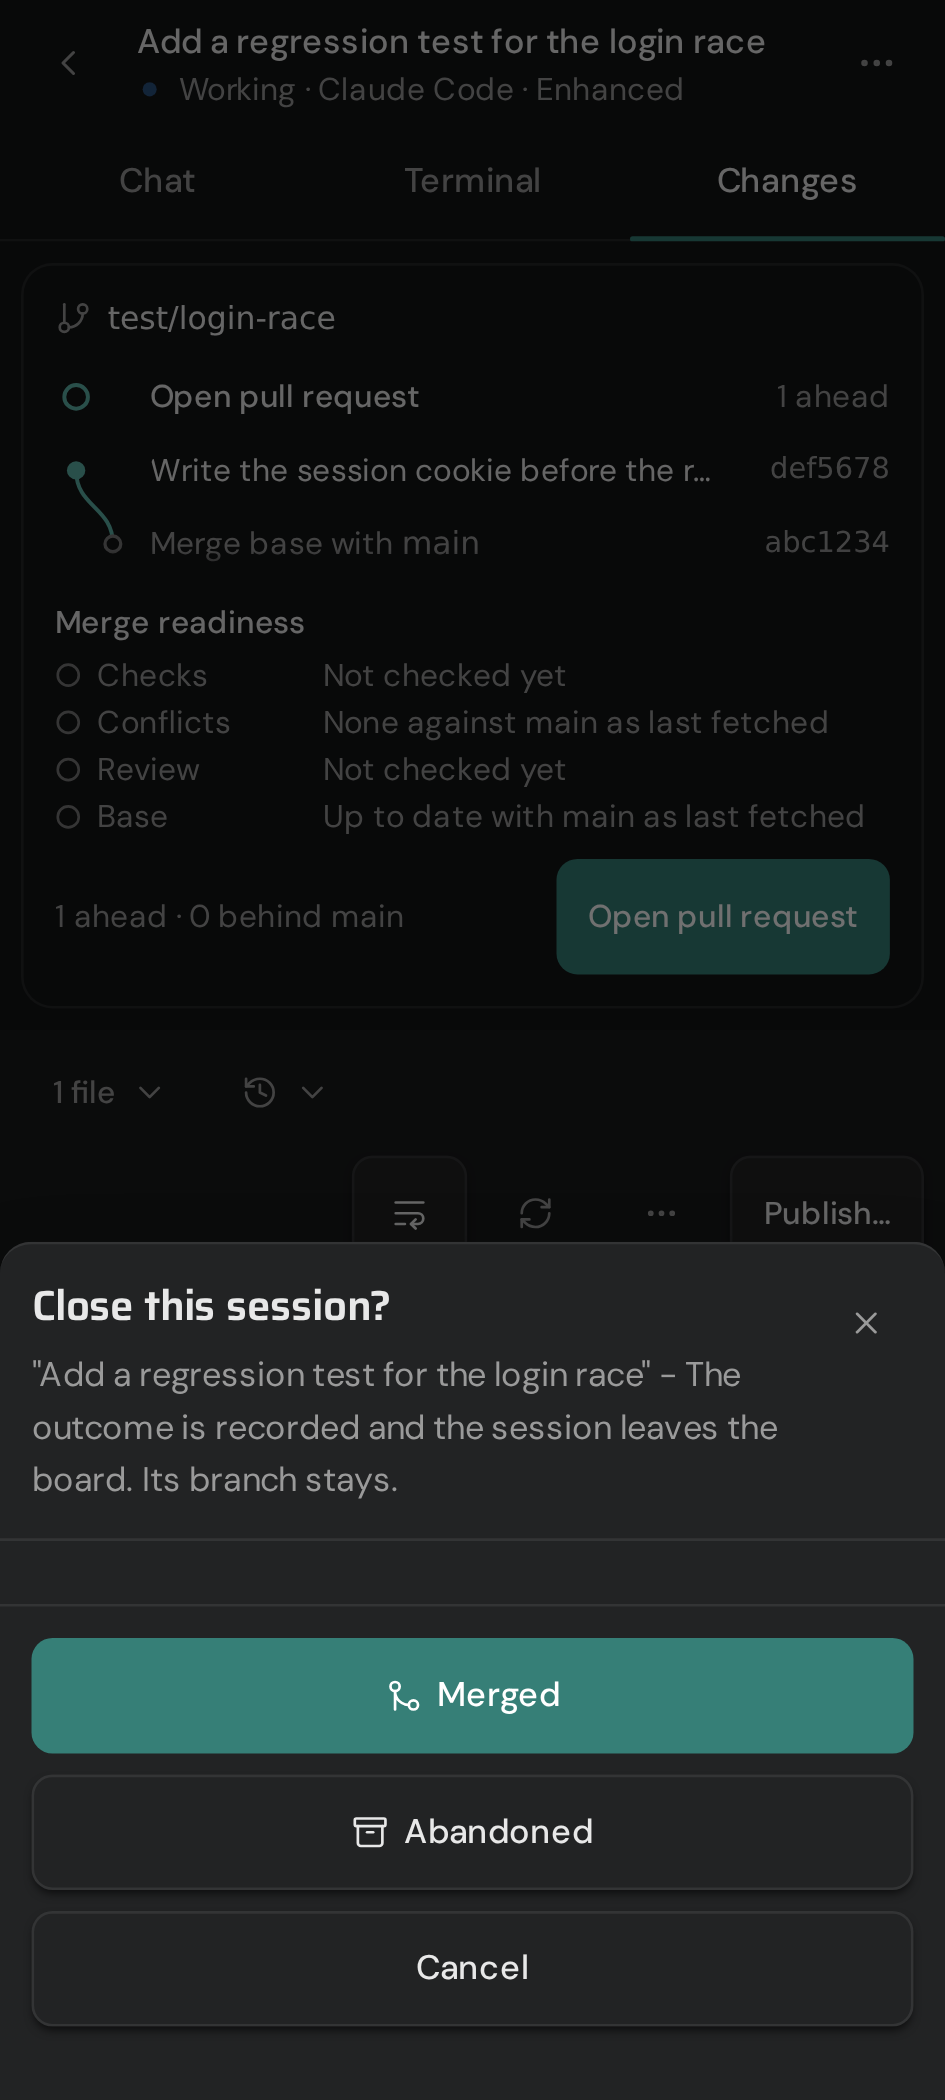
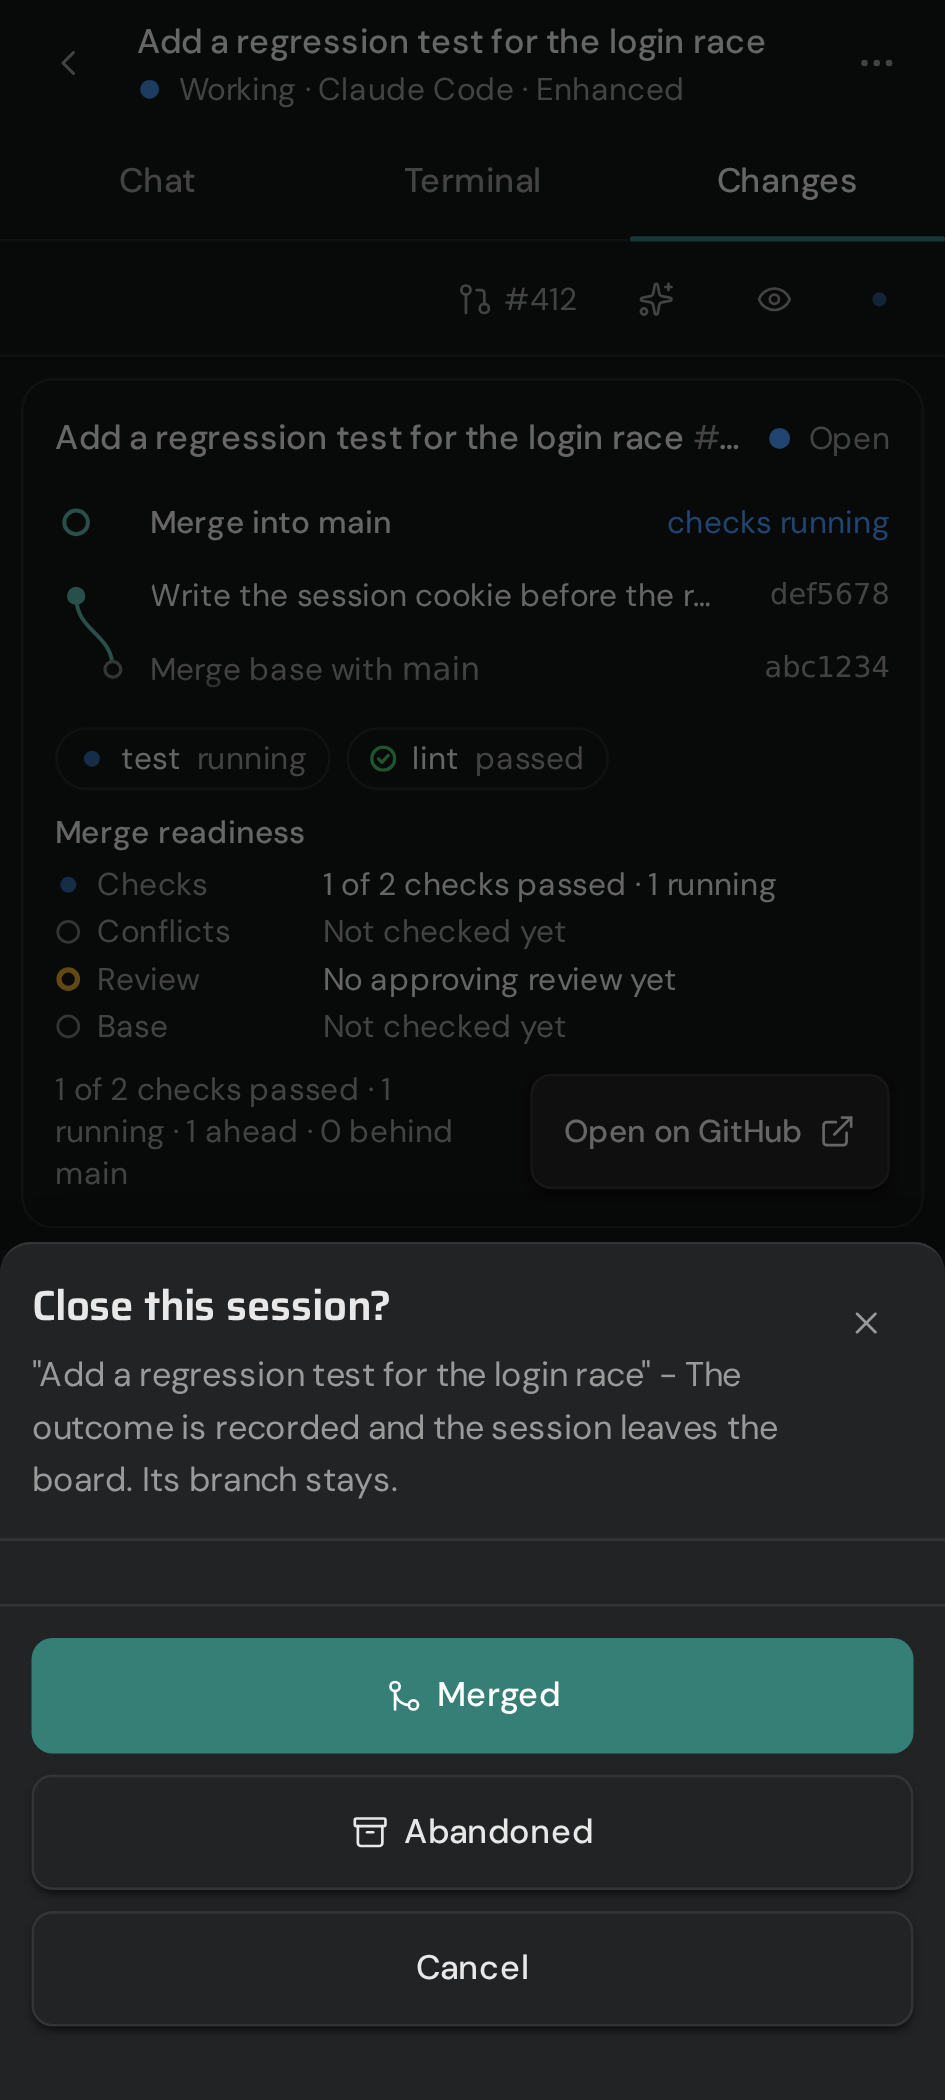
fix(dashboard): keep phone session tabs, Back and control usable
Greptile and design review round 2 on the phone session screen found
the pull request controls crushing the tabs at 360px, Back returning
to the same session after a subagent was opened, a teammate or admin
left without Take control because only the owner takes free control by
sending, the tabs staying hidden when a keyboard closed without a blur,
a notification's history entry forgetting its depth, and the phone
menu sheet drawn under its own scrim.

The pull request now sits in its own row on the Changes tab, Back
steps past every entry the session pushed, the strip shows for anyone
who is not the owner, the terminal check shares the tab bar's
keyboard-up hook, notification entries carry their depth, and the
sheet sits a layer above its scrim. The permission e2e sends its prompt
after the first turn, because the first carries the run's instructions.

diff --git a/web/src/routes/run/phone-header.tsx b/web/src/routes/run/phone-header.tsx
@@ -1,4 +1,4 @@
-import { useEffect, useState } from 'react'
+import { useState } from 'react'
 import type * as React from 'react'
 import { useShallow } from 'zustand/react/shallow'
 import { useAssistantAvailable } from '@/components/assistant/button'
@@ -9,6 +9,8 @@ import { Button } from '@/components/ui/button'
 import { StatusDot } from '@/components/ui/status-dot'
 import { TabsList, TabsTrigger } from '@/components/ui/tabs'
 import { coarsePointer, useMediaQuery } from '@/lib/hooks'
+import { useKeyboardUp } from '@/lib/keyboard-inset'
+import { cn } from '@/lib/utils'
 import { runLabel, stateName, toneOf } from '@/lib/status'
 import { historyDepth } from '@/lib/url-state'
 import { modeLabel } from '@/routes/run/agent-name'
@@ -31,29 +33,15 @@ const viewIcon: Record<OverflowView, React.ComponentType<{ className?: string }>
   browser: Globe,
 }
 
-const inTabs = (item: RunView): boolean => (tabViews as readonly RunView[]).includes(item)
-
-/** The terminal's own input has focus on a touch screen, so the soft keyboard is up. */
+/** The terminal's own input has focus on a touch screen with the keyboard up. */
 export function useTerminalTyping(): boolean {
   const coarse = useMediaQuery(coarsePointer)
-  const [typing, setTyping] = useState(false)
-  useEffect(() => {
-    if (!coarse) return
-    // focusout lands on the body before the next focusin, so the check waits for both.
-    const update = () => setTimeout(() => setTyping(document.activeElement?.matches('.xterm-helper-textarea') === true))
-    document.addEventListener('focusin', update)
-    document.addEventListener('focusout', update)
-    return () => {
-      document.removeEventListener('focusin', update)
-      document.removeEventListener('focusout', update)
-      setTyping(false)
-    }
-  }, [coarse])
-  return typing
+  return useKeyboardUp('.xterm-helper-textarea') && coarse
 }
 
-function leave() {
-  if (historyDepth() > 0) window.history.back()
+/** Steps back past every entry this session pushed, such as a subagent's, to the page it was opened from. */
+function leave(entered: number) {
+  if (entered > 0) window.history.go(entered - 1 - historyDepth())
   else useStore.getState().navigate('sessions')
 }
 
@@ -72,13 +60,14 @@ export function PhoneRunHeader({ run, view, views, nav, agentName, keyboard, pri
   pullRequest: React.ReactNode
 }) {
   const shown = useRunPresentation(run)
+  const [entered] = useState(historyDepth)
   const assistant = useAssistantAvailable()
   const totals = useStore(useShallow((s) => {
     const snapshot = s.diffs[run.id]?.snapshots[0] ?? s.diffs[run.id]?.persisted
     return snapshot?.truncated ? undefined : diffTotals(snapshot?.files)
   }))
-  const order = defaultView(run) === 'terminal' ? standardTabs : tabViews
-  const tabs = [...order.filter((item) => views.includes(item)), ...(inTabs(view) ? [] : [view])]
+  const order: readonly RunView[] = defaultView(run) === 'terminal' ? standardTabs : tabViews
+  const tabs = [...order.filter((item) => views.includes(item)), ...(order.includes(view) ? [] : [view])]
   const elsewhere: ExtraItem[] = views
     .filter((item): item is OverflowView => !tabs.includes(item))
     .map((item) => ({ id: `view-${item}`, label: runViewLabel[item], Icon: viewIcon[item], onSelect: () => nav.go(item) }))
@@ -93,7 +82,7 @@ export function PhoneRunHeader({ run, view, views, nav, agentName, keyboard, pri
   return (
     <>
       <header data-slot="pane-header" className={keyboard ? 'flex h-11 shrink-0 items-center gap-1 border-b border-seam px-1' : 'flex h-12 shrink-0 items-center gap-1 px-1'}>
-        <Button variant="ghost" size="icon" label="Back" onClick={leave}>
+        <Button variant="ghost" size="icon" label="Back" onClick={() => leave(entered)}>
           <ChevronLeft />
         </Button>
         <div className={keyboard ? 'flex min-w-0 flex-1 items-center gap-2' : 'flex min-w-0 flex-1 flex-col'}>
@@ -119,13 +108,15 @@ export function PhoneRunHeader({ run, view, views, nav, agentName, keyboard, pri
               <TabsTrigger key={item} value={item} className="min-w-0 flex-1 justify-center px-2">
                 {runViewLabel[item]}
                 {item === 'changes' && totals && (totals.additions > 0 || totals.deletions > 0) && (
-                  <span aria-hidden className="text-ui-sm font-normal text-muted tabular-nums">+{totals.additions} −{totals.deletions}</span>
+                  <span aria-hidden className={cn('text-ui-sm font-normal text-muted tabular-nums', tabs.length > 3 && 'max-[399px]:hidden')}>+{totals.additions} −{totals.deletions}</span>
                 )}
               </TabsTrigger>
             ))}
           </TabsList>
-          {pullRequest}
         </div>
+      )}
+      {!keyboard && view === 'changes' && pullRequest && (
+        <div className="flex h-11 shrink-0 items-center border-b border-seam px-2">{pullRequest}</div>
       )}
       <ConnectionLine className="border-b border-seam px-4 py-1" />
     </>

diff --git a/web/src/components/shell/phone-tab-bar.tsx b/web/src/components/shell/phone-tab-bar.tsx
@@ -1,10 +1,11 @@
-import { useEffect, useLayoutEffect, useRef, useState } from 'react'
+import { useLayoutEffect, useRef } from 'react'
 import type * as React from 'react'
 import { assistantLabel, assistantTriggerID, useAssistantAvailable } from '@/components/assistant/button'
 import { Bell, Ellipsis, List, Plus, Sparkles } from '@/components/icons'
 import { Button } from '@/components/ui/button'
 import { canLaunch, launchBlocked } from '@/lib/commands'
 import { coarsePointer, useMediaQuery } from '@/lib/hooks'
+import { useKeyboardUp } from '@/lib/keyboard-inset'
 import { cn, focusRingInset } from '@/lib/utils'
 import { useAskingCount, useAttentionSupported } from '@/routes/needs-you/attention'
 import { useStore } from '@/store'
@@ -54,41 +55,6 @@ function Tab({ label, icon, active, badge, dot, className, ...props }: Omit<Reac
 // A terminal's own input is left out: hiding the bar would resize the PTY on every focus change.
 const typingTarget = 'input:is(:not([type]), [type=text], [type=search], [type=email], [type=url], [type=tel], [type=password], [type=number]), textarea:not(.xterm-helper-textarea), [contenteditable=true]'
 
-// Android's Back and iOS's Done close the keyboard without a blur, so focus alone does not say it is up.
-const keyboardHeight = 150
-
-/** A text field has focus and the visible viewport is a keyboard shorter than the tallest it has been at this width. */
-function useKeyboardUp(): boolean {
-  const [up, setUp] = useState(false)
-  useEffect(() => {
-    const viewport = window.visualViewport
-    let full = { width: window.innerWidth, height: window.innerHeight }
-    let timer: ReturnType<typeof setTimeout> | undefined
-    const update = () => {
-      if (window.innerWidth !== full.width) full = { width: window.innerWidth, height: window.innerHeight }
-      full.height = Math.max(full.height, window.innerHeight)
-      const visible = viewport?.height ?? window.innerHeight
-      setUp(full.height - visible > keyboardHeight && document.activeElement?.matches(typingTarget) === true)
-    }
-    // focusout lands on the body before the next focusin, so the check waits for both.
-    const later = () => {
-      clearTimeout(timer)
-      timer = setTimeout(update)
-    }
-    document.addEventListener('focusin', later)
-    document.addEventListener('focusout', later)
-    viewport?.addEventListener('resize', update)
-    window.addEventListener('resize', update)
-    return () => {
-      clearTimeout(timer)
-      document.removeEventListener('focusin', later)
-      document.removeEventListener('focusout', later)
-      viewport?.removeEventListener('resize', update)
-      window.removeEventListener('resize', update)
-    }
-  }, [])
-  return up
-}
 
 /** The phone's navigation, below 768px. Needs you is home; More holds what the desktop sidebar and header carry. */
 export function PhoneTabBar() {
@@ -115,7 +81,7 @@ export function PhoneTabBar() {
   }
   const page = !assistantOpen && !moreOpen
   // A mouse and a hardware keyboard leave the screen alone, so only touch hides the bar.
-  const hidden = useKeyboardUp() && coarse
+  const hidden = useKeyboardUp(typingTarget) && coarse
   const bar = useRef<HTMLElement>(null)
   useLayoutEffect(() => {
     const element = bar.current

diff --git a/web/src/lib/keyboard-inset.ts b/web/src/lib/keyboard-inset.ts
@@ -1,4 +1,4 @@
-import { useEffect } from 'react'
+import { useEffect, useState } from 'react'
 
 // iOS Safari ignores `interactive-widget=resizes-content`: the soft keyboard shrinks only the visual
 // viewport, so a sheet pinned to the layout viewport's bottom sits behind it. `--keyboard-inset` is the
@@ -21,4 +21,40 @@ export function useKeyboardInset() {
       root.style.removeProperty('--keyboard-inset')
     }
   }, [])
+}
+
+// Android's Back and iOS's Done close the keyboard without a blur, so focus alone does not say it is up.
+const keyboardHeight = 150
+
+/** An element matching `target` has focus and the visible viewport is a keyboard shorter than the tallest it has been at this width. */
+export function useKeyboardUp(target: string): boolean {
+  const [up, setUp] = useState(false)
+  useEffect(() => {
+    const viewport = window.visualViewport
+    let full = { width: window.innerWidth, height: window.innerHeight }
+    let timer: ReturnType<typeof setTimeout> | undefined
+    const update = () => {
+      if (window.innerWidth !== full.width) full = { width: window.innerWidth, height: window.innerHeight }
+      full.height = Math.max(full.height, window.innerHeight)
+      const visible = viewport?.height ?? window.innerHeight
+      setUp(full.height - visible > keyboardHeight && document.activeElement?.matches(target) === true)
+    }
+    // focusout lands on the body before the next focusin, so the check waits for both.
+    const later = () => {
+      clearTimeout(timer)
+      timer = setTimeout(update)
+    }
+    document.addEventListener('focusin', later)
+    document.addEventListener('focusout', later)
+    viewport?.addEventListener('resize', update)
+    window.addEventListener('resize', update)
+    return () => {
+      clearTimeout(timer)
+      document.removeEventListener('focusin', later)
+      document.removeEventListener('focusout', later)
+      viewport?.removeEventListener('resize', update)
+      window.removeEventListener('resize', update)
+    }
+  }, [target])
+  return up
 }

diff --git a/web/e2e/phone-session.mobile.spec.ts b/web/e2e/phone-session.mobile.spec.ts
@@ -72,16 +72,22 @@ test('a link to a view wins on a phone, and Back returns to Needs you', async ({
   await aether.installACPMock(alice, await memberID(alice))
   const { workspaces } = await alice.api.rpc<{ workspaces: { id: string }[] }>('workspace.list')
   const { run } = await alice.api.rpc<{ run: { id: string } }>('run.launch', {
-    workspace_id: workspaces[0].id, harness: 'mock', mode: 'acp', task: 'ask permission',
+    workspace_id: workspaces[0].id, harness: 'mock', mode: 'acp', task: 'demo',
   })
   const views = page.getByRole('tablist', { name: 'Session views' })
 
   await page.goto(`${alice.url}&run=${run.id}&view=changes`)
   await expect(views.getByRole('tab', { name: 'Changes' })).toHaveAttribute('aria-selected', 'true')
 
+  // The first prompt carries the run's instructions, so the mock asks only for a prompt sent later.
+  await views.getByRole('tab', { name: 'Chat' }).tap()
+  await expect(page.getByRole('log', { name: 'Chat' }).getByText('pong').first()).toBeVisible({ timeout: 180_000 })
+  await page.getByRole('combobox', { name: 'Message the agent' }).fill('ask permission')
+  await page.getByRole('button', { name: 'Send', exact: true }).tap()
+
   await page.goto(alice.url)
   const card = page.getByRole('list', { name: 'Needs you' }).getByRole('group').filter({ hasText: 'Permission requested' })
-  await card.getByRole('button', { name: 'ask permission' }).tap({ timeout: 180_000 })
+  await card.getByRole('button', { name: 'Review' }).tap({ timeout: 60_000 })
   await expect(views.getByRole('tab', { name: 'Chat' })).toHaveAttribute('aria-selected', 'true')
   await page.getByRole('button', { name: 'Back' }).tap()
   await expect(page.getByRole('list', { name: 'Needs you' })).toBeVisible()

diff --git a/web/src/routes/run/session-rows.tsx b/web/src/routes/run/session-rows.tsx
@@ -14,6 +14,7 @@ import { AssistantRow, EventRow, LiveActivityRow, MessageRow } from '@/component
 import { playEntrance, type Entrance } from '@/lib/motion'
 import { memberName, resolveMember } from '@/lib/member-name'
 import { allowed } from '@/lib/permissions'
+import { cn } from '@/lib/utils'
 import { inputHint } from '@/lib/run-requests'
 import type { AgentTerminal } from '@/routes/run/agent-terminal'
 import type { RunNavigation } from '@/routes/run/header'
@@ -193,13 +194,13 @@ function UserRow({ row, ctx, name }: { row: Extract<SessionRow, { kind: 'user' }
           {author && <span aria-hidden>·</span>}
           {row.delivery && (
             <>
-              <span className={row.delivery === 'Not sent' || row.delivery === 'Denied' ? 'text-state-failed' : undefined}>
+              <span className={cn('shrink-0', (row.delivery === 'Not sent' || row.delivery === 'Denied') && 'text-state-failed')}>
                 {row.delivery === 'Queued' && row.deliverAfter ? <DeliveryCountdown deliverAfter={row.deliverAfter} /> : row.delivery}
               </span>
               <span aria-hidden>·</span>
             </>
           )}
-          <RelativeTime at={row.at} />
+          <span className="shrink-0 whitespace-nowrap"><RelativeTime at={row.at} /></span>
         </>
       }
     >

diff --git a/web/src/lib/push.ts b/web/src/lib/push.ts
@@ -4,7 +4,7 @@
 
 import { desktopBridge } from '@/components/shell/window-bar'
 import { ApiError, type Api } from '@/lib/api'
-import { routeFromQuery } from '@/lib/url-state'
+import { historyDepth, routeFromQuery } from '@/lib/url-state'
 import { runRoute } from '@/routes/run/views'
 import type { RootStore } from '@/store'
 import { capability } from '@/store/hooks'
@@ -113,7 +113,7 @@ export function watchPush(store: RootStore, client: Api): () => void {
       if (url.origin !== window.location.origin) return
       // Kept in the address bar, so query keys the route does not carry,
       // such as the watch to show, still reach the page.
-      window.history.pushState(null, '', url)
+      window.history.pushState({ depth: historyDepth() + 1 }, '', url)
       const route = routeFromQuery(url.searchParams)
       store.getState().navigate(route.name, route.params)
       return

diff --git a/web/src/components/ui/menu.tsx b/web/src/components/ui/menu.tsx
@@ -44,7 +44,8 @@ export function MenuContent({
             surface,
             'z-50 min-w-40 overflow-x-hidden overflow-y-auto p-1 outline-none motion-reduce:animate-none',
             sheet
-              ? 'max-h-[85dvh] w-screen rounded-b-none border-x-0 border-b-0 pb-[calc(0.25rem+env(safe-area-inset-bottom))] animate-sheet-up'
+              // The scrim's portal mounts once the items are counted, after this one, so the sheet sits a layer above it.
+              ? 'z-[51] max-h-[85dvh] w-screen rounded-b-none border-x-0 border-b-0 pb-[calc(0.25rem+env(safe-area-inset-bottom))] animate-sheet-up'
               : 'max-h-[min(320px,var(--radix-dropdown-menu-content-available-height))] origin-(--radix-dropdown-menu-content-transform-origin) animate-overlay-in',
             className,
           )}

diff --git a/web/src/routes/run/multiplayer-controls.tsx b/web/src/routes/run/multiplayer-controls.tsx
@@ -44,7 +44,8 @@ export function useSharedPresence(run: RunRecord, agent: AgentTerminal): boolean
   const presenceError = useStore((s) => s.roomStatusError[run.id])
   const session = useStore((s) => s.acpSessions[run.id])
   if (presenceError || session?.controlError || session?.takeoverError || session?.streamError) return true
-  if (!agent.localControl && status?.controller) return true
+  // Only the owner takes free control implicitly; anyone else needs the strip's button.
+  if (!agent.localControl && (status?.controller || run.member_id !== self.id)) return true
   return status?.watchers.some((id) => id !== self.id) ?? false
 }
 

diff --git a/docs/dashboard-frontend.md b/docs/dashboard-frontend.md
@@ -597,10 +597,11 @@ and the tab bar hides, so `main` pads the top and bottom safe areas itself.
 The header (`routes/run/phone-header.tsx`) is one 48px row: **Back**, the
 title with its protection lock, a state line (status dot, state, agent and
 mode), the header's primary action when there is one, and **More**. Under it
-the tabs **Chat**, **Terminal** and **Changes** fill a 44px row, with the
-pull request at its right end; a Standard session orders them **Terminal**,
-**Chat**, **Changes**. **Changes** carries the muted `+N −M` of the latest
-snapshot, unless it was truncated. **More** opens with a **Views** group
+the tabs **Chat**, **Terminal** and **Changes** fill a 44px row; a Standard
+session orders them **Terminal**, **Chat**, **Changes**. **Changes** carries
+the muted `+N −M` of the latest snapshot, unless it was truncated, and drops
+it below 400px while a fourth tab shows. The pull request, which would crowd
+the tabs, sits in a 44px row of its own under them on the Changes tab only. **More** opens with a **Views** group
 (Trace, Files, Browser, **Session details**, **Workflow**, **Search…**,
 **Assistant**), then the session's commands, Captures and Raw events; a view
 opened from there joins the tabs while it shows. Close, Stop and Delete in **More**
@@ -610,18 +611,20 @@ Without a `view` in the address a phone lands on `defaultView`, never on the
 view this tab last showed: Chat for an Enhanced session, Terminal for a
 Standard one. A link that names a view still opens it. A tab switch replaces
 the history entry instead of pushing one, so **Back** leaves the session. It
-steps back in the tab's history when the dashboard pushed the entry below
-(`historyDepth` in `src/lib/url-state.ts`) and opens Sessions when the
-session was opened by a link.
+steps back past every entry pushed since the session opened, a subagent's
+included, when the dashboard pushed the entry below (`historyDepth` in
+`src/lib/url-state.ts`, which a notification's entry counts too), and opens
+Sessions when the session was opened by a link.
 
 While the keyboard is up (the composer has focus, or the terminal's input on
-a touch screen), the header shrinks to one 44px row with the title, the
+a touch screen while the visible viewport is a keyboard shorter,
+`useKeyboardUp` in `src/lib/keyboard-inset.ts`), the header shrinks to one 44px row with the title, the
 status dot and, from 400px wide, the state's name, and the tabs, the wait line, the lineage line and the
 [multiplayer strip](#multiplayer-controls) leave. On a phone the strip shows
 only while someone else watches, another member or another of your tabs
-holds control, or control, presence or the stream failed
-(`useSharedPresence`); alone, sending a message takes control implicitly and
-Details lists the people. A hidden tab bar removes `--phone-tabs-height`, so
+holds control, the session is not yours, or control, presence or the stream
+failed (`useSharedPresence`). Only the owner takes free control implicitly
+by sending; Details lists the people. A hidden tab bar removes `--phone-tabs-height`, so
 toasts fall back to the bottom safe area. The Chat
 composer is the desktop `ComposerBox`, padded by `--keyboard-inset`
 (`src/lib/keyboard-inset.ts`) so it sits above an iOS keyboard as well.
